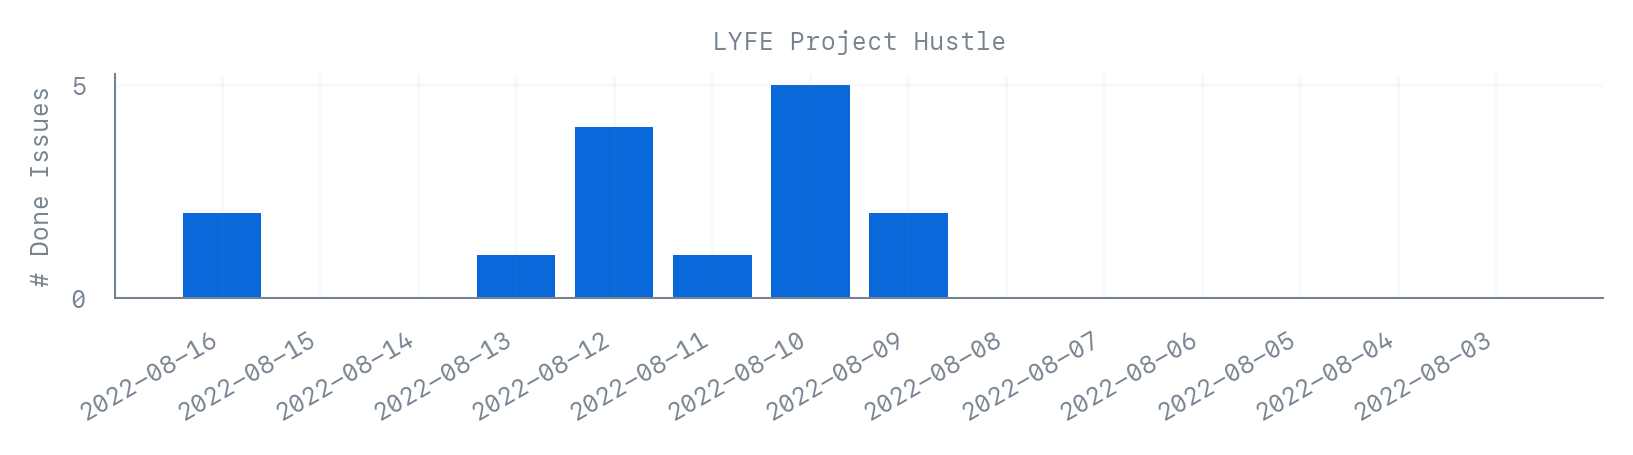
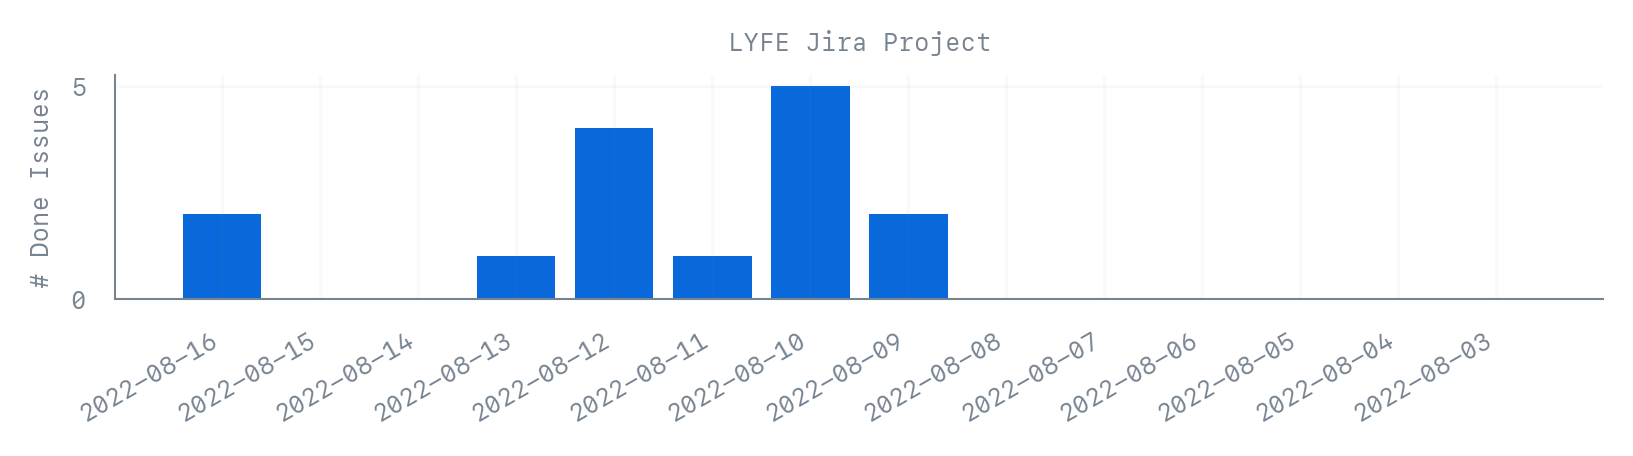
More self explanatory/professional title

Changed region(s): [[0.0625, 0.6462, 0.9682, 0.6769], [0.4372, 0.0615, 0.6246, 0.1231]]

diff --git a/graph-hustle.py b/graph-hustle.py
@@ -57,7 +57,7 @@ def save_plot(x, y):
     plt.grid(True, color=BLACK, alpha=GRID_ALPHA)
     plt.ylabel('# Done Issues', fontsize=FONTSIZE)
     plt.title(
-        f"LYFE Project Hustle",
+        f"LYFE Jira Project",
         color=BLACK,
         fontsize=FONTSIZE,
     )
